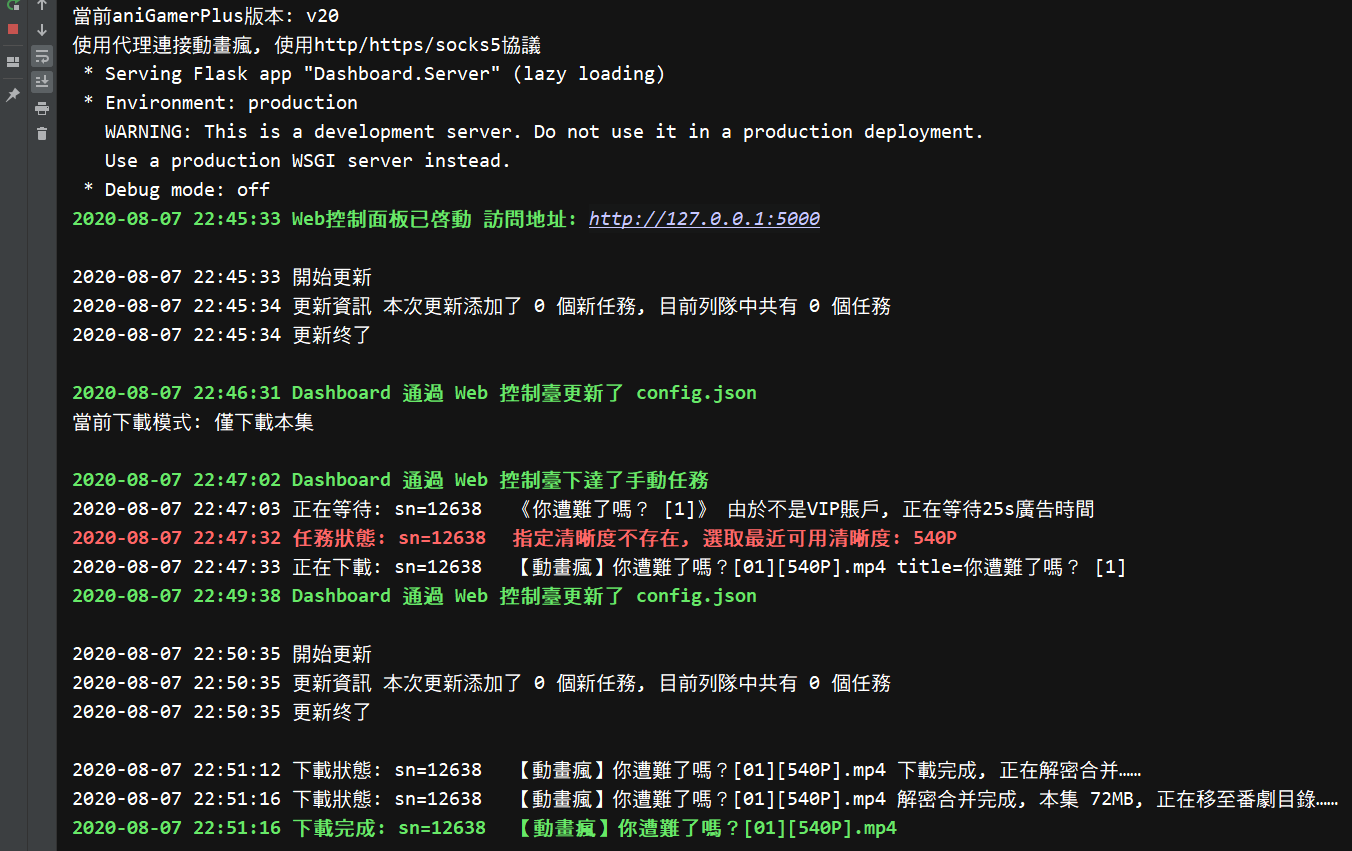
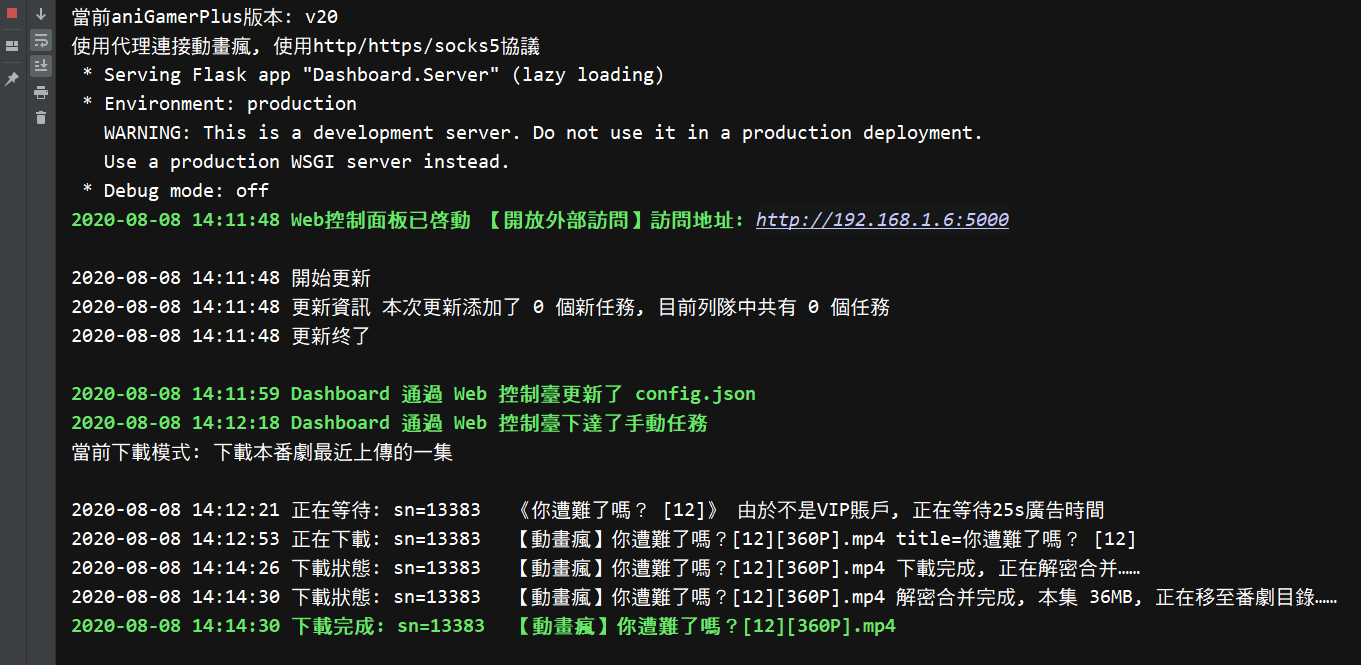
修復升級配置時丟失 ads_time

Changed region(s): [[0.0, 0.0, 0.8388, 0.7218], [0.0311, 0.7519, 0.9941, 0.9925]]

diff --git a/Config.py b/Config.py
@@ -16,7 +16,7 @@ sn_list_path = os.path.join(working_dir, 'sn_list.txt')
 cookie_path = os.path.join(working_dir, 'cookie.txt')
 logs_dir = os.path.join(working_dir, 'logs')
 aniGamerPlus_version = 'v20'
-latest_config_version = 14.0
+latest_config_version = 14.1
 latest_database_version = 2.0
 cookie = None
 max_multi_thread = 5
@@ -260,6 +260,9 @@ def __update_settings(old_settings):  # 升级配置文件
             'username': 'admin',
             'password': 'admin'
         }
+
+    if 'ads_time' not in new_settings.keys():
+        new_settings['ads_time'] = 25
 
     new_settings['config_version'] = latest_config_version
     with open(config_path, 'w', encoding='utf-8') as f:
